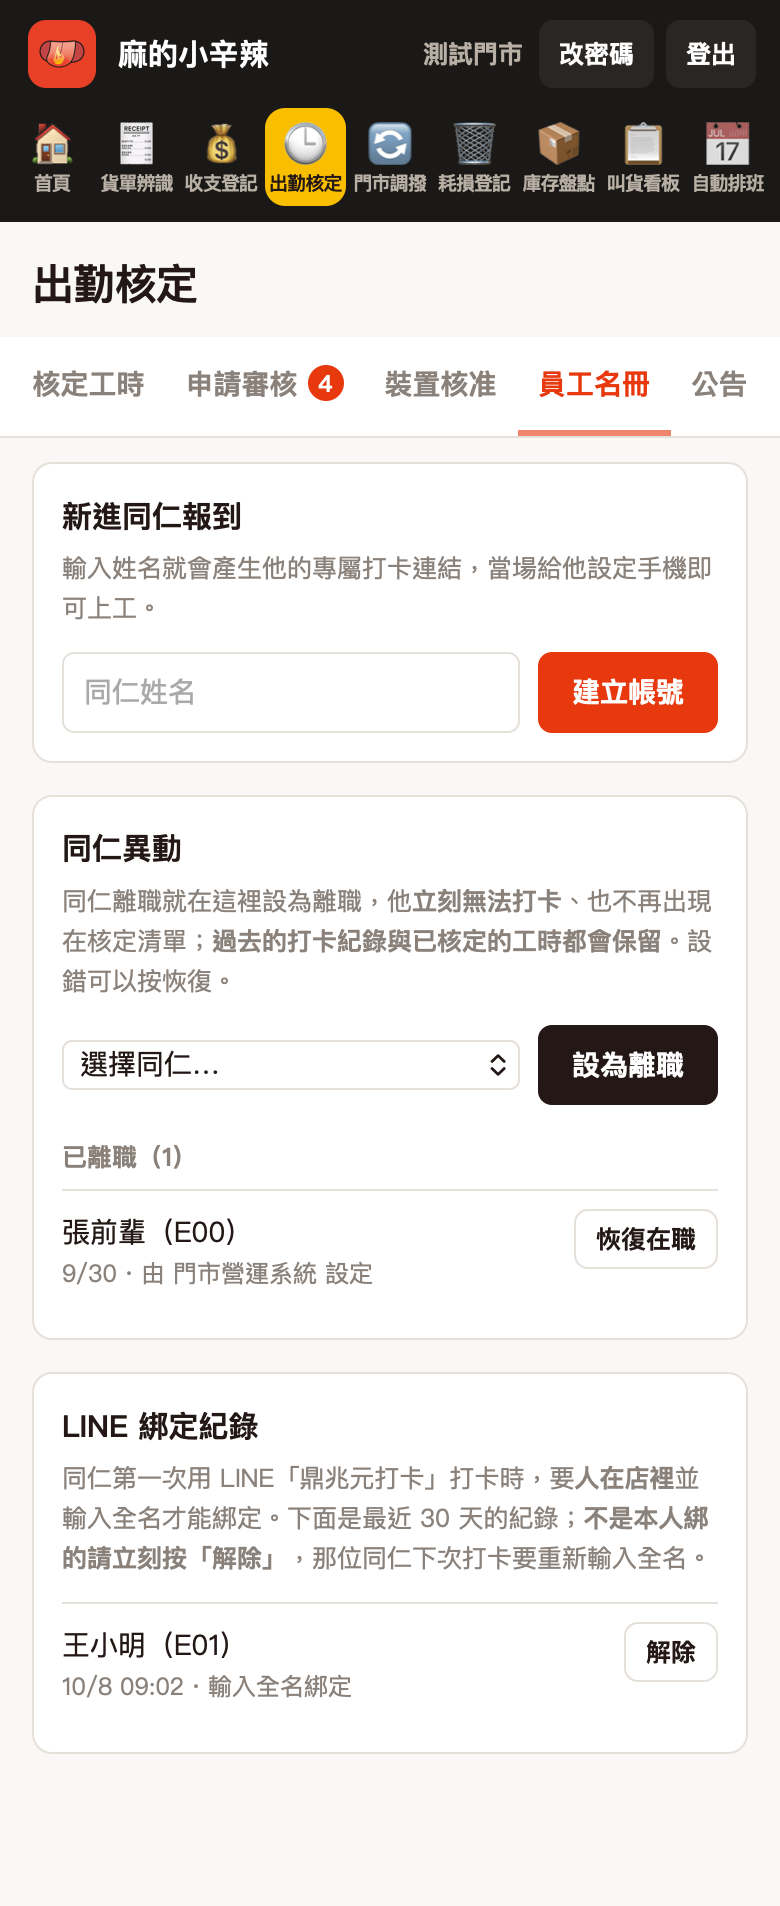
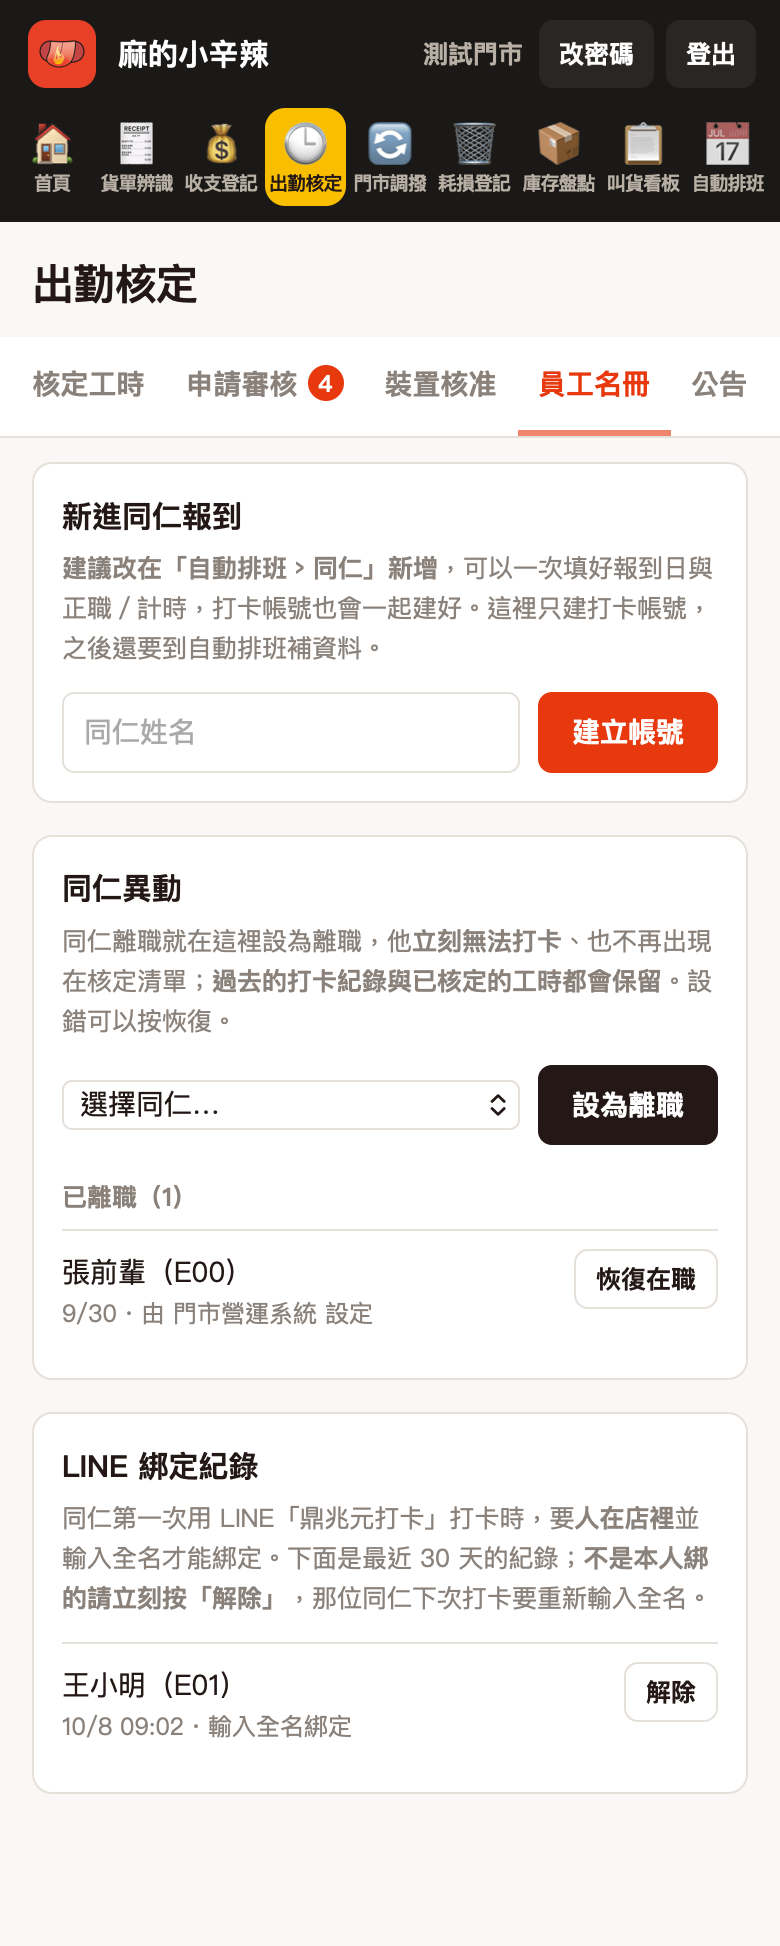
自動排班：同仁分頁新增同仁（一次填報到日與身分，背後建打卡帳號）；出勤核定新進同仁報到改建議、專屬連結收合；操作手冊加新進與離職同仁（mala-store-ops 70fcffa）

diff --git a/modules/schedule/staff.js b/modules/schedule/staff.js
@@ -1,6 +1,8 @@
 // 自動排班「同仁」分頁：身分（正職／計時，依日期生效）、目標工時、只能上的班、報到日、離職日、生日、手機、特休；不同班配對；帶入實際出勤。
-// 姓名與在職從打卡名冊來（有打卡的店）；沒有打卡的店在這裡手動新增。不放任何薪資。
+// 姓名與在職從打卡名冊來（有打卡的店）。新同仁一律在這裡「新增同仁」（2026-10-11 合併出勤核定的新進同仁報到）：
+// 有打卡的店由伺服器代建打卡帳號（addHire），沒有打卡的店用 local- 編號。不放任何薪資。
 import { esc, busy, confirmBox } from '../../js/ui.js';
+import { clockLink } from '../duty/calc.js';
 import { S, call, load } from './state.js';
 import { termAt } from './rules.js';
 import { leaveOf } from './calc.js';
@@ -16,7 +18,7 @@ export function renderStaff(ctx) {
     const lvTxt = !lv ? '填報到日期後顯示' : lv.days == null ? `${lv.hours} 小時（照工時比例）` : `${lv.days} 天`;
     const allowed = t.allowed_shifts || [];
     const hist = (D.terms[st.emp_id] || []).length > 1 ? `<div class="hint">身分紀錄：${(D.terms[st.emp_id] || []).map((x) => `${esc(x.from_date)} 起${x.kind === 'ft' ? '正職' : '計時'}`).join('、')}</div>` : '';
-    return `<div class="card sc-staff" data-emp="${esc(st.emp_id)}"><div class="row"><h3>${esc(st.name)}</h3><span class="hint">${esc(st.emp_id)}</span>${st.leave_date ? `<span class="tag">${esc(st.leave_date)} 離職</span>` : ''}${!t.kind ? '<span class="tag bad">還沒設正職或計時</span>' : ''}</div>
+    return `<div class="card sc-staff" data-emp="${esc(st.emp_id)}"><div class="row"><h3>${esc(st.name)}</h3><span class="hint">${esc(st.emp_id)}</span>${st.leave_date ? `<span class="tag">${esc(st.leave_date)} 離職</span>` : ''}${!t.kind ? '<span class="tag bad">還沒設正職或計時</span>' : ''}${!st.hire_date && !st.leave_date ? '<span class="tag bad">還沒填報到日期</span>' : ''}</div>
       <div class="grid2">
         <div class="fld"><label>身分</label><select class="f-kind"><option value="">請選擇</option><option value="ft" ${t.kind === 'ft' ? 'selected' : ''}>正職（四週變形）</option><option value="pt" ${t.kind === 'pt' ? 'selected' : ''}>計時（每週一例一休）</option></select></div>
         <div class="fld"><label>身分從哪天開始</label><input type="date" class="f-from" value="${esc(t.from_date && t.from_date > '2026-10-04' ? t.from_date : '')}" placeholder="空白＝一直都是"></div>
@@ -36,11 +38,30 @@ export function renderStaff(ctx) {
   const nameOf = (e) => (D.staff.find((s) => s.emp_id === e) || {}).name || e;
 
   const staffMsg = S.staffMsg; S.staffMsg = '';
+  const hired = S.hireResult; S.hireResult = null;
+  const hiredHtml = !hired ? '' : `<div class="okmsg" id="hiDone" role="status">✓ 已新增 <b>${esc(hired.name)}</b>（編號 ${esc(hired.emp_id)}）${hired.clock ? '，打卡帳號也建好了。請他打開 LINE「鼎兆元打卡」，第一次打卡時<b>人在店裡</b>、輸入全名綁定。' : '。'}
+      <br>接著：這一期還沒鎖定就到「班表」按自動排班；已經鎖定要先解除鎖定（要出勤核定密碼，LINE 上那一期會暫時撤下）→ 自動排班 → 沒有紅字再鎖定。</div>
+    ${hired.link ? `<details class="mt" id="hiLinkBox"><summary>舊版專屬打卡連結（沒用 LINE 打卡的人才需要）</summary><p class="hint">用 Safari 開 → 加入主畫面，以後都從主畫面進。</p><span class="du-link" id="hiLink">${esc(hired.link)}</span> <button type="button" class="btn sm ghost" id="hiCopy">複製連結</button></details>` : ''}`;
   el.innerHTML = `
   <div class="card"><h2>同仁</h2>
-    <p class="hint">${noClock ? '這家店沒有打卡系統，同仁在這裡新增。' : '姓名從打卡系統的名冊帶進來（以打卡的員工編號對人）；新同仁請先在「出勤核定 › 員工名冊」報到。'}每個人都要設定正職或計時才能排班。</p>
-    ${noClock ? '<div class="row"><input type="text" id="stNewName" maxlength="30" placeholder="同仁姓名" aria-label="新同仁姓名"><button type="button" class="btn" id="stAdd">新增同仁</button></div>' : `<div class="row"><button type="button" class="btn ghost" id="stActuals">帶入 10/19–10/31 實際出勤</button><span class="hint">11 月第一期要接著算連續上班天數與換班間隔，排之前按一次。</span></div>`}
+    <p class="hint">${noClock ? '這家店沒有打卡系統，同仁只存在排班裡。' : '姓名與在職跟打卡系統的名冊同步（以打卡的員工編號對人）。'}每個人都要設定正職或計時、填報到日期才能排班。</p>
+    ${noClock ? '' : `<div class="row"><button type="button" class="btn ghost" id="stActuals">帶入 10/19–10/31 實際出勤</button><span class="hint">11 月第一期要接著算連續上班天數與換班間隔，排之前按一次。</span></div>`}
     <div id="stMsg" class="okmsg" role="status">${esc(staffMsg || '')}</div></div>
+  <div class="card" id="hiCard"><h2>新增同仁</h2>
+    <p class="hint">${noClock ? '填好按「新增同仁」就會出現在下面的清單。' : '填好按「新增同仁」，系統會<b>同時在打卡系統建立他的帳號</b>，不用再到「出勤核定 › 員工名冊」做一次。'}報到日之前不會排到他。</p>
+    <div class="grid2">
+      <div class="fld"><label for="hiName">姓名（全名）</label><input type="text" id="hiName" maxlength="20" autocomplete="off"></div>
+      <div class="fld"><label for="hiHire">報到日期（必填）</label><input type="date" id="hiHire"></div>
+      <div class="fld"><label for="hiKind">身分</label><select id="hiKind"><option value="">請選擇</option><option value="ft">正職（四週變形）</option><option value="pt">計時（每週一例一休）</option></select></div>
+      <div class="fld"><label for="hiTarget">每期目標工時（小時）</label><input type="number" min="0" max="300" id="hiTarget" placeholder="正職預設 160"></div>
+      <div class="fld"><label for="hiWeek">計時：契約每週工時（小時）</label><input type="number" min="0" max="60" id="hiWeek"></div>
+      <div class="fld"><label for="hiBday">生日</label><input type="date" id="hiBday"></div>
+      <div class="fld"><label for="hiPhone">手機</label><input type="tel" id="hiPhone" maxlength="20"></div>
+    </div>
+    <label class="sc-chk"><input type="checkbox" id="hiSame"> 計時但每週上班天數跟正職一樣（特休給完整天數）</label>
+    <div class="fld mt"><label>只能上的班（都不勾＝每班都能上）</label><div class="row">${shifts.map((s) => `<label class="sc-chk"><input type="checkbox" class="hi-al" value="${esc(s.id)}"> ${esc(s.name)}</label>`).join('')}</div></div>
+    <div class="row mt"><button type="button" class="btn" id="hiAdd">新增同仁</button></div>
+    <div id="hiMsg" class="okmsg" role="status"></div>${hiredHtml}</div>
   ${D.staff.map(card).join('')}
   <div class="card"><h2>不要排在同一班的兩個人</h2>
     <div class="row"><select id="prA" aria-label="第一個人">${D.staff.map((s) => `<option value="${esc(s.emp_id)}">${esc(s.name)}</option>`).join('')}</select>
@@ -64,9 +85,28 @@ export function renderStaff(ctx) {
       } catch (e) { say(f('.f-msg'), e.message, true); }
     });
   });
-  if (q('#stAdd')) q('#stAdd').onclick = () => busy(q('#stAdd'), async () => {
-    try { await call('saveStaff', { staff: { name: q('#stNewName').value } }); await load(); ctx.rerender(); } catch (e) { say(q('#stMsg'), e.message, true); }
+  q('#hiAdd').onclick = () => busy(q('#hiAdd'), async () => {
+    const box = q('#hiMsg');
+    const name = q('#hiName').value.trim();
+    if (!name) { say(box, '請先輸入姓名', true); return q('#hiName').focus(); }
+    if (!q('#hiHire').value) { say(box, '請填報到日期（報到日前不會排班）', true); return q('#hiHire').focus(); }
+    if (!q('#hiKind').value) { say(box, '請選正職或計時', true); return q('#hiKind').focus(); }
+    const dup = D.staff.find((x) => x.name === name && (!x.leave_date || x.leave_date >= D.today));
+    if (dup) { say(box, `同仁清單已經有在職的「${name}」（編號 ${dup.emp_id}）。真的是不同人請改用可區分的名字（例如加姓氏或括號）。`, true); return q('#hiName').focus(); }
+    if (!noClock && !(await confirmBox(`要新增「${name}」嗎？\n會同時在打卡系統建立他的帳號，他就能開始打卡。`, '新增'))) return;
+    try {
+      const r = await call('addHire', { hire: { name, hire_date: q('#hiHire').value, kind: q('#hiKind').value, target_min: hrs(q('#hiTarget').value), week_min: hrs(q('#hiWeek').value),
+        same_days: q('#hiSame').checked, birthday: q('#hiBday').value || null, phone: q('#hiPhone').value || null, allowed_shifts: [...el.querySelectorAll('.hi-al:checked')].map((x) => x.value) } });
+      S.hireResult = { name: r.name, emp_id: r.emp_id, clock: r.clock, link: r.clock && r.key ? clockLink(r.clockStore, r.key) : '' };
+      await load(); ctx.rerender();
+    } catch (e) { say(box, e.code === 'NOT_FOUND' ? '伺服器還沒更新到這個功能，請先到「出勤核定 › 員工名冊」建打卡帳號，再回來補報到日與身分。' : e.message, true); }
   });
+  if (q('#hiCopy')) q('#hiCopy').onclick = () => {
+    const cp = q('#hiCopy'), link = q('#hiLink').textContent;
+    const done = () => { cp.textContent = '✓ 已複製'; setTimeout(() => { cp.textContent = '複製連結'; }, 2000); };
+    const fallback = () => { const r = document.createRange(); r.selectNodeContents(q('#hiLink')); const sl = getSelection(); sl.removeAllRanges(); sl.addRange(r); cp.textContent = '已選取，請長按複製'; };
+    if (navigator.clipboard && navigator.clipboard.writeText) navigator.clipboard.writeText(link).then(done, fallback); else fallback();
+  };
   if (q('#stActuals')) q('#stActuals').onclick = () => busy(q('#stActuals'), async () => {
     try { const r = await call('importActuals', {}); await load(); S.staffMsg = `已帶入 ${r.from}～${r.to} 的實際出勤，共 ${r.rows} 筆`; ctx.rerender(); }
     catch (e) { say(q('#stMsg'), e.message, true); }

diff --git a/guide.html b/guide.html
@@ -36,7 +36,7 @@ footer{text-align:center;color:var(--muted);font-size:12.5px;margin-top:20px}
 <header><h1>門市操作手冊</h1><p>登入、貨單辨識、收支登記、出勤核定、耗損登記</p></header>
 <div class="wrap">
 <nav class="toc" aria-label="目錄"><b>想看哪一段</b>
-  <a href="#login">登入與改密碼</a><a href="#home">首頁</a><a href="#purchase">貨單辨識</a><a href="#cashbook">收支登記</a><a href="#duty">出勤核定</a><a href="#transfer">門市調撥</a><a href="#loss">耗損登記</a><a href="#inventory">庫存盤點</a><a href="#board">叫貨看板</a><a href="#help">遇到問題</a></nav>
+  <a href="#login">登入與改密碼</a><a href="#home">首頁</a><a href="#purchase">貨單辨識</a><a href="#cashbook">收支登記</a><a href="#duty">出勤核定</a><a href="#transfer">門市調撥</a><a href="#loss">耗損登記</a><a href="#inventory">庫存盤點</a><a href="#board">叫貨看板</a><a href="#staff">新進與離職同仁</a><a href="#help">遇到問題</a></nav>
 
 <section id="login"><h2>一、登入與改密碼</h2>
   <h3>第一次登入</h3>
@@ -171,8 +171,8 @@ footer{text-align:center;color:var(--muted);font-size:12.5px;margin-top:20px}
   <h3>員工名冊</h3>
   <p>切到 <b>員工名冊</b>：</p>
   <ul>
-    <li><b>新進同仁報到</b>：輸入姓名按 <span class="btn">建立帳號</span>，會產生他的專屬打卡連結，按 <span class="btn">複製連結</span> 傳給他，請他用 Safari 開、加入主畫面。</li>
-    <li><b>同仁異動</b>：選同仁按 <span class="btn">設為離職</span>，他立刻不能打卡，過去的紀錄都保留。設錯了，在「已離職」清單按 <span class="btn">恢復在職</span>。</li>
+    <li><b>新進同仁報到</b>：<b>建議改在「自動排班 › 同仁」新增</b>（見「十、新進與離職同仁」），可以一次填好報到日與正職／計時。這裡只建打卡帳號，建好後請他打開 LINE「鼎兆元打卡」綁定；舊版專屬打卡連結收在「舊版專屬打卡連結」裡，沒用 LINE 打卡的人才需要。</li>
+    <li><b>同仁異動</b>：選同仁按 <span class="btn">設為離職</span>，他立刻不能打卡，過去的紀錄都保留。設錯了，在「已離職」清單按 <span class="btn">恢復在職</span>。同仁要離職，請先看「十、新進與離職同仁」的順序。</li>
   </ul>
   <h3>公告</h3>
   <p>切到 <b>公告</b>：輸入內容（最多 120 字），需要時選「顯示到」的日期（留空＝一直顯示），按 <span class="btn">發布公告</span>，同仁打卡頁最上方就會看到。下面的清單可以按 <span class="btn">下架</span>，之後也能按 <span class="btn">重新顯示</span>。</p>
@@ -299,7 +299,32 @@ footer{text-align:center;color:var(--muted);font-size:12.5px;margin-top:20px}
   <figure class="shot"><img src="img/guide/27-board-detail.jpg" width="780" height="1688" loading="lazy" alt="點當期使用的數字，跳出每天用量明細"><figcaption>點數字看每天明細</figcaption></figure>
 </section>
 
-<section id="help"><h2>十、遇到問題</h2>
+<section id="staff"><h2>十、新進與離職同仁</h2>
+  <p>同仁的報到、身分、離職都在 <b>自動排班 › 同仁</b> 處理。有打卡系統的店，系統會在背後同時建好打卡帳號，<b>不用再到「出勤核定 › 員工名冊」做一次</b>。</p>
+  <h3>新進同仁</h3>
+  <ol>
+    <li>到 <b>自動排班</b> → 上方切到 <b>同仁</b> → 「新增同仁」那張卡片。</li>
+    <li>填 <b>姓名（全名）</b>、<b>報到日期（必填，報到日之前不會排到他）</b>、<b>身分</b>（正職或計時；計時另外填每期目標工時、契約每週工時），有的話再填生日、手機、只能上的班。</li>
+    <li>按 <span class="btn">新增同仁</span>，確認後就建好了。畫面會寫出他的員工編號；請他打開 LINE「鼎兆元打卡」，第一次打卡時<b>人在店裡</b>、輸入全名綁定。</li>
+    <li>排進班表：這一期<b>還沒鎖定</b>就到「班表」按 <span class="btn">自動排班</span>；<b>已經鎖定</b>要先解除鎖定（要出勤核定密碼，LINE 上那一期會暫時撤下）→ 自動排班 → 沒有紅字再鎖定並發布。</li>
+  </ol>
+  <div class="tip">期中才報到的同仁，例假與休息日依在職天數比例計算。同名的人不能同時在職（薪資和班表會對錯人），真的同名請加姓氏或括號區分。</div>
+  <h3>離職同仁</h3>
+  <ol>
+    <li>先在 <b>自動排班 › 同仁</b> 找到他，填 <b>離職日期</b>（最後上班那一天），按 <span class="btn">儲存</span>。</li>
+    <li>最後一天過後，到 <b>出勤核定 › 員工名冊 › 同仁異動</b> 把他 <span class="btn">設為離職</span>（停止打卡，過去紀錄保留）。</li>
+    <li>離職日之後還排著的班會標紅：這一期沒鎖定就按 <span class="btn">自動排班</span>；已鎖定就解除鎖定 → 重排 → 鎖定。</li>
+  </ol>
+  <div class="warn">順序不要反過來：先在出勤核定設離職的話，名冊同步會把他的離職日記成「設定那天的前一天」，不是真正的最後上班日。</div>
+  <h3>另外兩件事</h3>
+  <ul>
+    <li><b>正職改計時（或反過來）</b>：在他的卡片改身分，「身分從哪天開始」要填<b>某一期的第一天</b>，期中換會被擋。</li>
+    <li><b>沒有 LINE 打卡的店</b>（例如墨竹亭六張犁）：一樣在「同仁」新增，只會存在排班裡，不會建打卡帳號。</li>
+  </ul>
+  <figure class="shot"><img src="img/guide/28-schedule-hire.jpg" width="780" height="1688" loading="lazy" alt="自動排班 › 同仁：新增同仁"><figcaption>新增同仁</figcaption></figure>
+</section>
+
+<section id="help"><h2>十一、遇到問題</h2>
   <ul>
     <li><b>登入不了</b>：確認門市代號、密碼。忘記密碼請找管理者重設。被鎖住請等 15 分鐘。</li>
     <li><b>左側欄看不到某個系統</b>：那項功能還沒開給你們店，請洽管理者。</li>

diff --git a/js/mock-schedule.js b/js/mock-schedule.js
@@ -45,7 +45,7 @@ function ctxOf(st, period, hol) {
   return { period, shifts: st.shifts, staff: st.staff, terms: st.terms, days: st.days, actuals: st.actuals, demand: demandFor(st, dates), pins, pairs: st.pairs, holidays: hol, monthOtMin: {} };
 }
 
-export async function schedule(action, me, b, db, s) {
+export async function schedule(action, me, b, db, s, hooks) {
   const hol = await holidays();
   const st = storeOf(db, me.code);
   const clockAlias = me.code === 'TEST2' ? null : '';
@@ -162,6 +162,27 @@ export async function schedule(action, me, b, db, s) {
       if (x.hire_date && x.leave_date && x.leave_date < x.hire_date) return fail('BAD_INPUT', '離職日期不能早於報到日期');
       Object.assign(row, { hire_date: x.hire_date || null, leave_date: x.leave_date || null, birthday: x.birthday || null, phone: x.phone || null });
       return ok({ emp_id: e });
+    }
+    case 'addHire': {   // 照 server/schedule.js addHire：先檢查欄位與同名 → 有打卡的店代建打卡帳號（假出勤核定名冊）→ 寫排班資料
+      const h = b.hire || {};
+      const name = String(h.name || '').trim();
+      if (!name) return fail('BAD_INPUT', '姓名不能空白');
+      if (name.length > 20) return fail('BAD_INPUT', '姓名太長');
+      if (!h.hire_date) return fail('BAD_INPUT', '請填報到日期（報到日前不會排班）');
+      if (!['ft', 'pt'].includes(h.kind)) return fail('BAD_INPUT', '請選正職或計時');
+      if (h.phone && !/^[0-9+\-\s]{6,20}$/.test(h.phone)) return fail('BAD_INPUT', '手機格式不對');
+      const today = todayTaipei();
+      const dup = st.staff.find((x) => x.name === name && (!x.leave_date || x.leave_date >= today));
+      if (dup) return fail('BAD_INPUT', `同仁清單已經有在職的「${name}」（編號 ${dup.emp_id}）。同名會讓薪資與班表對錯人，真的是不同人請改用可區分的名字（例如加姓氏或括號）。`);
+      let e, key = null;
+      if (clockAlias !== null) {
+        const r = hooks && hooks.addEmployee ? hooks.addEmployee(name) : fail('UPSTREAM', '打卡系統暫時沒有回應，請稍後再試');
+        if (!r.ok) return r;
+        e = r.data.emp_id; key = r.data.key;
+      } else e = 'local-' + String(st.staff.filter((y) => y.emp_id.startsWith('local-')).length + 1).padStart(6, '0');
+      st.staff.push({ emp_id: e, name, hire_date: h.hire_date, leave_date: null, birthday: h.birthday || null, phone: h.phone || null, sort: st.staff.length });
+      st.terms[e] = [{ from_date: '2026-10-04', kind: h.kind, target_min: h.target_min == null && h.kind === 'ft' ? 9600 : h.target_min, week_min: h.week_min == null ? null : h.week_min, same_days: h.same_days ? 1 : 0, allowed_shifts: (h.allowed_shifts || []).filter((x) => st.shifts[x]) }];
+      return ok({ emp_id: e, name, clock: clockAlias !== null, clockStore: clockAlias, key });
     }
     case 'saveTerm': {
       const t = b.term || {};

diff --git a/modules/duty/roster.js b/modules/duty/roster.js
@@ -1,5 +1,5 @@
 // 員工名冊：新進同仁報到（manager.html:1930–2010）＋同仁異動（離職＝停用不是真刪、可恢復，manager.html:2012–2120）。
-// 建立後顯示員工專屬打卡連結與「複製連結」，照原頁；連結裡的 k 是該員工自己的打卡金鑰（不是主管金鑰）。
+// 2026-10-11 起建議改在自動排班 › 同仁新增（一次填報到日與身分）；這裡保留。建立後專屬打卡連結收合成次要資訊（LINE 打卡上線後少用）；連結裡的 k 是該員工自己的打卡金鑰（不是主管金鑰）。
 import { esc, confirmBox } from '../../js/ui.js';
 import { S, call, h, failBar } from './state.js';
 import { clockLink } from './calc.js';
@@ -7,7 +7,7 @@ import { clockLink } from './calc.js';
 export function renderRoster(ctx) {
   const el = ctx.el;
   el.innerHTML = `<div class="card" id="duAdd"><h2>新進同仁報到</h2>
-    <p class="hint">輸入姓名就會產生他的專屬打卡連結，當場給他設定手機即可上工。</p>
+    <p class="hint"><b>建議改在「自動排班 › 同仁」新增</b>，可以一次填好報到日與正職／計時，打卡帳號也會一起建好。這裡只建打卡帳號，之後還要到自動排班補資料。</p>
     <div class="row"><input type="text" id="aeName" class="grow" placeholder="同仁姓名" autocomplete="off" maxlength="20" aria-label="同仁姓名"><button type="button" class="btn" id="aeBtn">建立帳號</button></div>
     <div class="du-msg" id="aeResult" hidden></div></div>
     <div id="duRosterFail"></div>
@@ -101,8 +101,9 @@ export function renderRoster(ctx) {
     try {
       const res = await call('mgr_add_employee', { name });
       const link = clockLink(S.meta.clockStore, res.key);
-      show(aeBox, '✓ 已建立 <b>' + esc(res.name) + '</b>（編號 ' + esc(res.emp_id) + '）<br>把下面這條連結給他，請他<b>用 Safari 開 → 加入主畫面</b>，以後都從主畫面進：'
-        + '<span class="du-link" id="aeLink">' + esc(link) + '</span><button type="button" class="btn sm ghost" id="aeCopy">複製連結</button>');
+      show(aeBox, '✓ 已建立 <b>' + esc(res.name) + '</b>（編號 ' + esc(res.emp_id) + '）<br>請他打開 LINE「鼎兆元打卡」，第一次打卡時人在店裡、輸入全名綁定。記得到「自動排班 › 同仁」補報到日期與正職／計時。'
+        + '<details id="aeLinkBox"><summary>舊版專屬打卡連結（沒用 LINE 打卡的人才需要）</summary>用 Safari 開 → 加入主畫面，以後都從主畫面進：'
+        + '<span class="du-link" id="aeLink">' + esc(link) + '</span><button type="button" class="btn sm ghost" id="aeCopy">複製連結</button></details>');
       nameIn.value = '';
       const cp = q('#aeCopy');
       cp.onclick = () => {

diff --git a/js/mock.js b/js/mock.js
@@ -148,7 +148,7 @@ function route(method, p, q, b, token) {
     if (m[1] === 'inventory') return invMock(m[2], me, b, db);
     if (m[1] === 'loss') return lossMock(m[2], me, b, db);
     if (m[1] === 'board') return boardMock(m[2], me, b, db);
-    if (m[1] === 'schedule') return import('./mock-schedule.js').then(x => x.schedule(m[2], me, b, db, s));   // 用到才載入（排班計算檔案多，放在開頁就載會拉長每一頁的載入時間，WebKit 換頁時更容易打斷其他假資料的讀取）
+    if (m[1] === 'schedule') return import('./mock-schedule.js').then(x => x.schedule(m[2], me, b, db, s, { addEmployee: name => dutyDo(dutyDb(), 'mgr_add_employee', { name }) }));   // 用到才載入（排班計算檔案多，放在開頁就載會拉長每一頁的載入時間，WebKit 換頁時更容易打斷其他假資料的讀取）
     return fail('NOT_FOUND', '還在搬移中，暫時請用原本的系統');
   }
   if (p.startsWith('/admin/')) {
